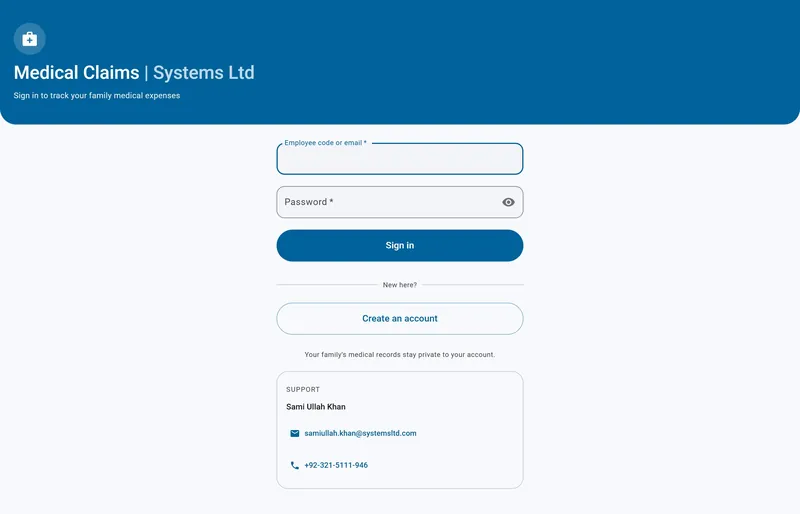
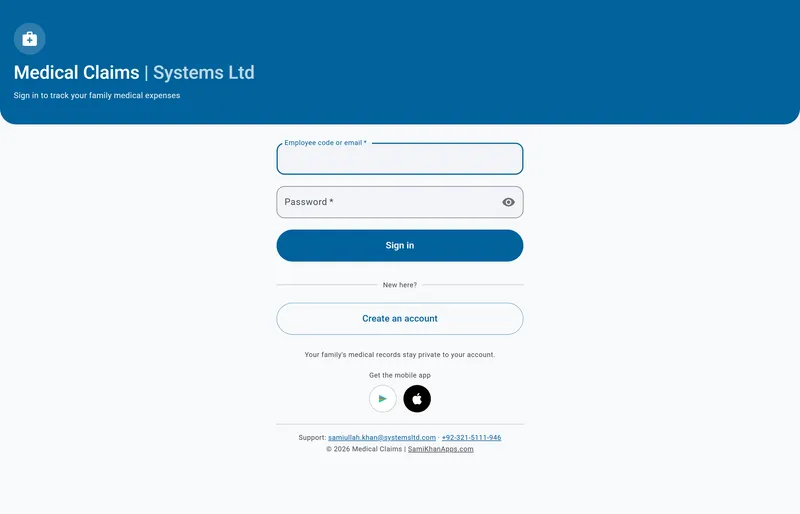
Auto-refresh project card screenshots from the live apps
The cards showed screenshots captured by hand on 18 Sep, so they drifted as
soon as an app changed — Medical Claims had since gained a "Get the mobile
app" section that the card never reflected.

- scripts/refresh-screenshots.js recaptures all three apps (or one by name)
  and writes both the 800px WebP and its JPG fallback
- refresh-screenshots.yml runs it on repository_dispatch (so an app repo can
  fire it right after deploying), weekly as a safety net, and on demand
- Commits only when the images actually differ, then calls deploy.yml,
  since a push made with GITHUB_TOKEN would not trigger it otherwise
- deploy.yml gains a workflow_call trigger so the rsync isn't duplicated

Side effect: the JPG fallbacks were still 2800x1800 and are now 800x514,
cutting assets/projects from 440KB to 120KB.

Changed region(s): [[0.3438, 0.8405, 0.625, 0.9339], [0.4375, 0.716, 0.5625, 0.8093], [0.3438, 0.7471, 0.4375, 0.8093]]

diff --git a/scripts/refresh-screenshots.js b/scripts/refresh-screenshots.js
@@ -1,0 +1,84 @@
+// Recaptures the project card screenshots from the live apps.
+//
+// The cards on the homepage show real screenshots of tasks./finance./medical.
+// samikhanapps.com. Those are static files, so they go stale as soon as an app
+// changes. This regenerates them.
+//
+//   node scripts/refresh-screenshots.js            # all apps
+//   node scripts/refresh-screenshots.js taskcue    # just one
+//
+// Writes assets/projects/<name>-800.webp (used) and <name>.jpg (fallback).
+
+const { chromium } = require('playwright');
+const sharp = require('sharp');
+const path = require('path');
+
+const APPS = {
+  taskcue: 'https://tasks.samikhanapps.com/',
+  finance: 'https://finance.samikhanapps.com/',
+  medical: 'https://medical.samikhanapps.com/',
+};
+
+// Matches the width/height attributes on the <img> tags in index.html.
+const OUT_W = 800;
+const OUT_H = 514;
+// Captured at 2x this aspect ratio, then downscaled, so text stays crisp.
+const VIEW_W = 1400;
+const VIEW_H = 900;
+
+const outDir = path.resolve(__dirname, '..', 'assets', 'projects');
+
+async function capture(page, name, url) {
+  console.log(`  fetching ${url}`);
+  const res = await page.goto(url, { waitUntil: 'networkidle', timeout: 45000 });
+  if (!res || res.status() >= 400) {
+    throw new Error(`${url} returned ${res ? res.status() : 'no response'}`);
+  }
+  // let fonts settle so text isn't captured mid-swap
+  await page.waitForTimeout(2000);
+
+  const png = await page.screenshot({ type: 'png' });
+
+  await sharp(png).resize(OUT_W, OUT_H, { fit: 'cover', position: 'top' })
+    .webp({ quality: 80 }).toFile(path.join(outDir, `${name}-800.webp`));
+  await sharp(png).resize(OUT_W, OUT_H, { fit: 'cover', position: 'top' })
+    .jpeg({ quality: 82 }).toFile(path.join(outDir, `${name}.jpg`));
+
+  console.log(`  wrote ${name}-800.webp and ${name}.jpg`);
+}
+
+(async () => {
+  const only = process.argv[2];
+  const targets = only ? { [only]: APPS[only] } : APPS;
+
+  if (only && !APPS[only]) {
+    console.error(`unknown app "${only}". known: ${Object.keys(APPS).join(', ')}`);
+    process.exit(1);
+  }
+
+  const browser = await chromium.launch();
+  const page = await browser.newPage({
+    viewport: { width: VIEW_W, height: VIEW_H },
+    deviceScaleFactor: 2,
+  });
+
+  const failures = [];
+  for (const [name, url] of Object.entries(targets)) {
+    console.log(`${name}:`);
+    try {
+      await capture(page, name, url);
+    } catch (err) {
+      // One app being down shouldn't block refreshing the others.
+      console.error(`  FAILED: ${err.message}`);
+      failures.push(name);
+    }
+  }
+
+  await browser.close();
+
+  if (failures.length) {
+    console.error(`\nfailed: ${failures.join(', ')}`);
+    process.exit(1);
+  }
+  console.log('\nall screenshots refreshed');
+})();
